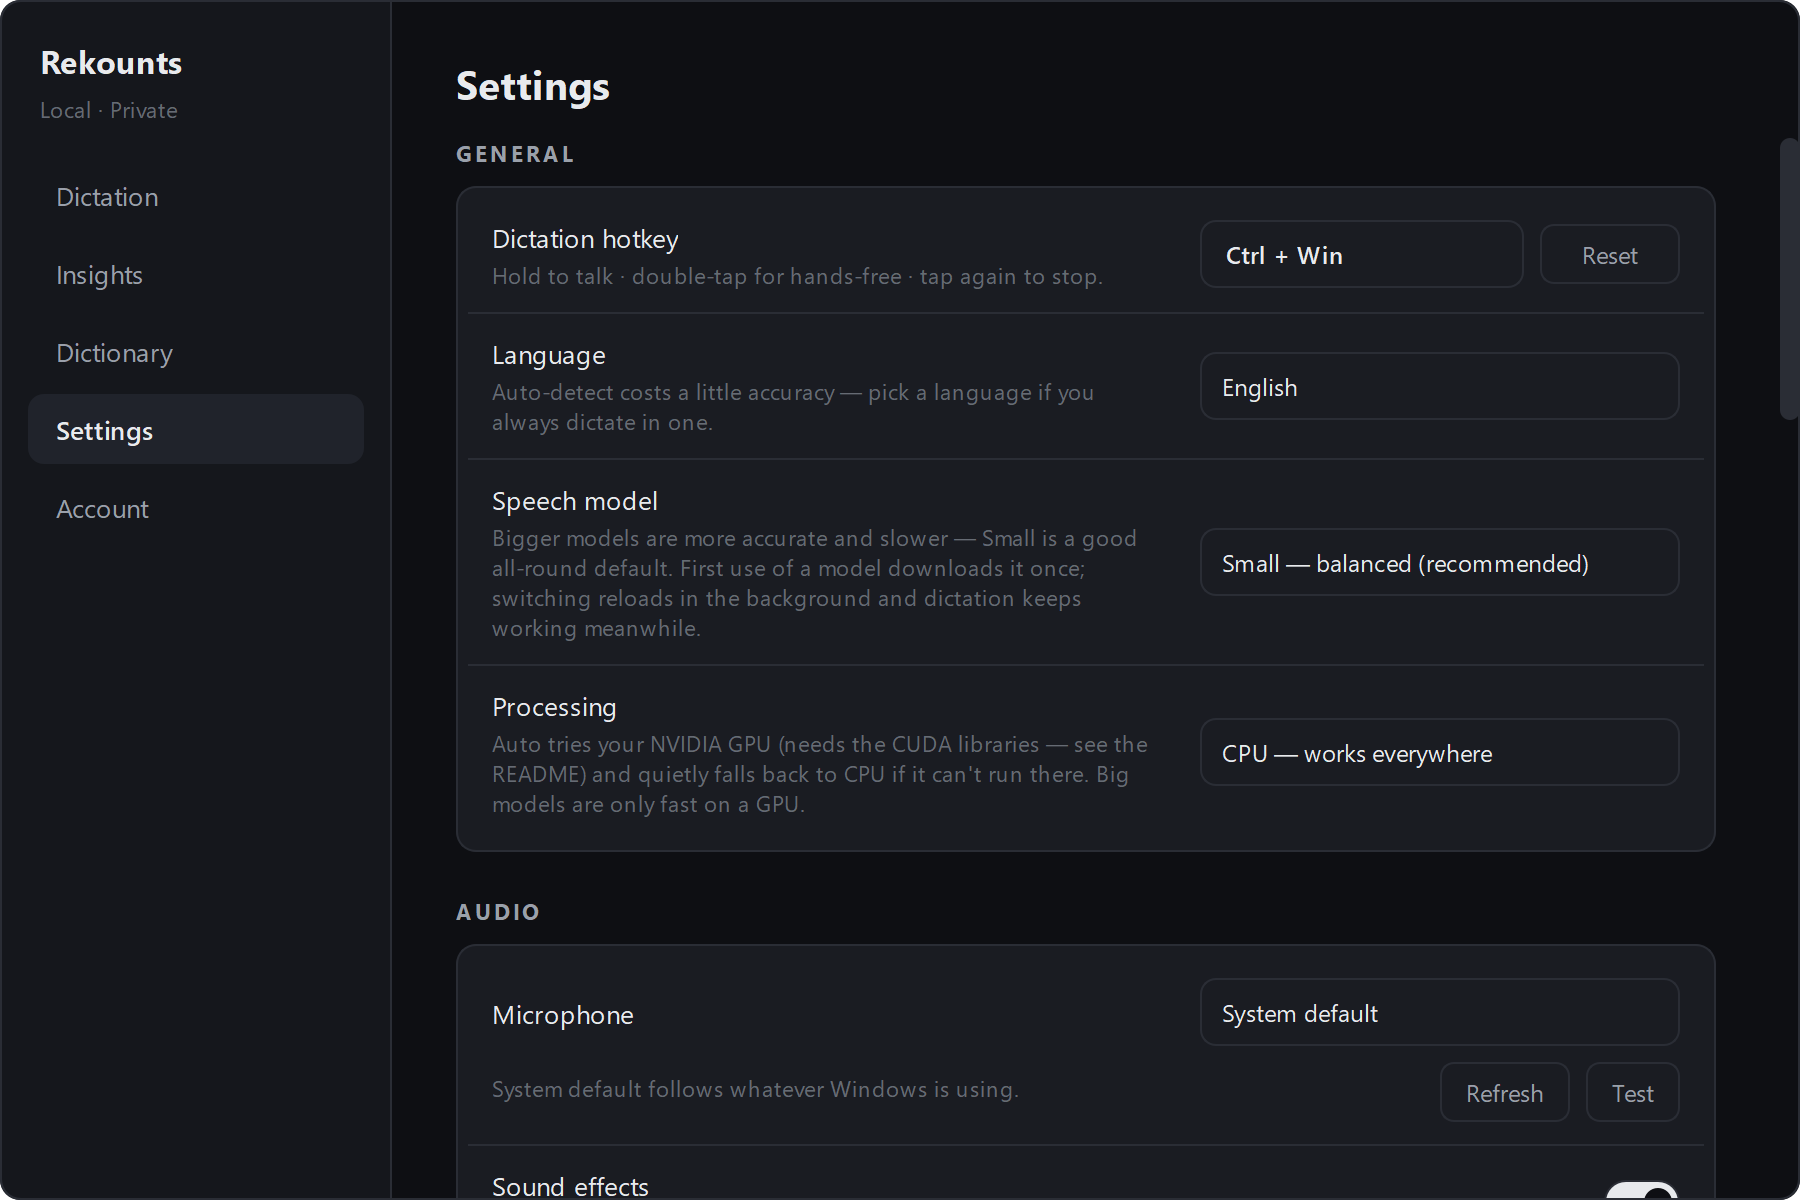
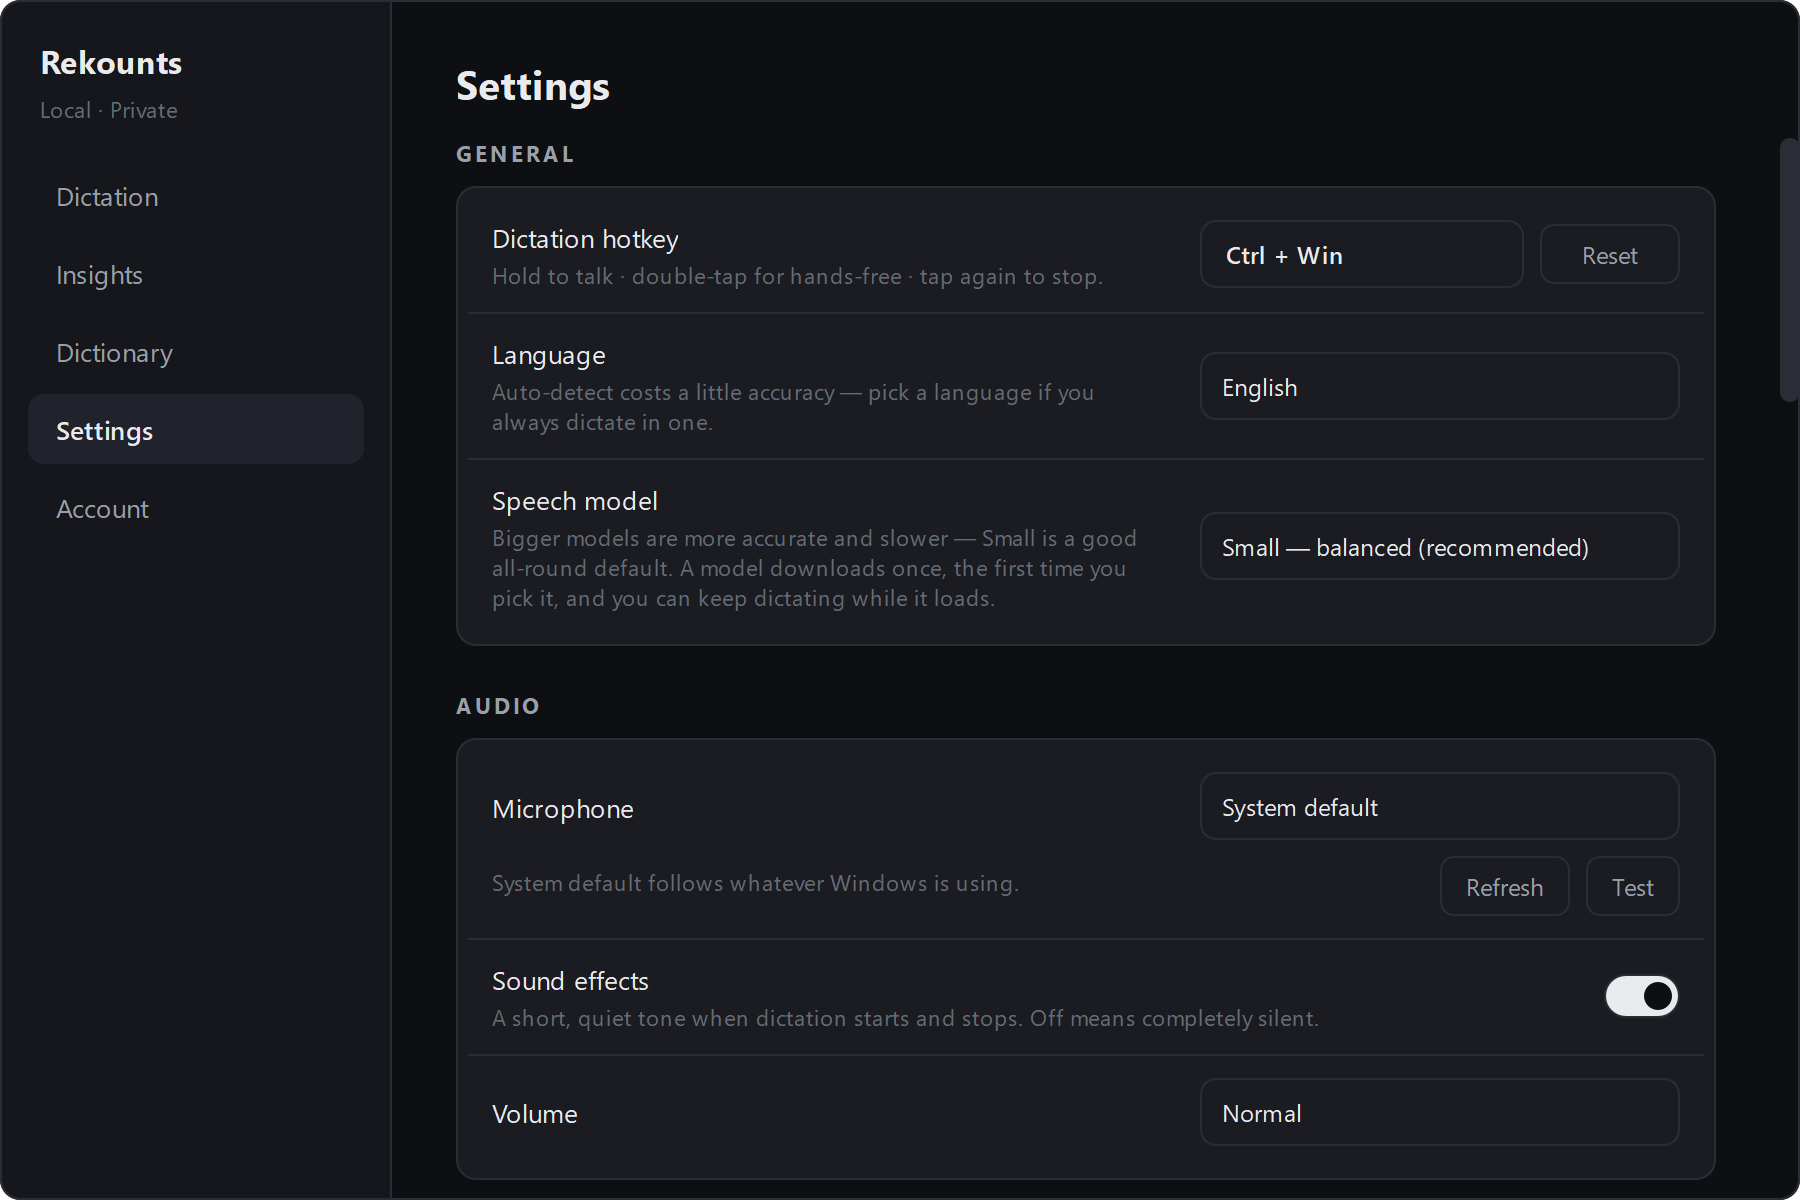
docs(img): capture Settings the way a downloader sees it
capture_hub_shots.py necessarily runs from source, where the Processing row
exists - so the README screenshot was showing a row the installed app this
README is selling does not have. Same reasoning that already swaps the real
microphone names and the capture machine's data folder: the published image
must not show something only true of the machine it was taken on.

diff --git a/tools/capture_hub_shots.py b/tools/capture_hub_shots.py
@@ -20,7 +20,9 @@ published images can't leak the machine they were captured on:
 
 * the microphone list (real device names) -> two generic placeholders;
 * the "Where your data lives" path (the sandbox temp dir) -> the generic
-  ``C:\\Users\\you\\AppData\\Roaming\\Rekounts`` a user would see.
+  ``C:\\Users\\you\\AppData\\Roaming\\Rekounts`` a user would see;
+* the **Processing** row -> hidden, because this script runs from source and
+  the packaged build the README is illustrating has no GPU stack in it.
 
 Everything else on screen is the app rendering its own state.
 
@@ -54,7 +56,7 @@ from PySide6 import QtCore, QtGui, QtWidgets  # noqa: E402
 from rekounts import paths, startup  # noqa: E402
 from rekounts.config import Config  # noqa: E402
 from rekounts.history import History  # noqa: E402
-from rekounts.ui import settings_page, theme  # noqa: E402
+from rekounts.ui import platform_text, settings_page, theme  # noqa: E402
 from rekounts.ui.dashboard import Dashboard  # noqa: E402
 from scripts.seed_history import SAMPLES  # noqa: E402
 
@@ -221,6 +223,12 @@ def main():
     settings_page.microphone_options = lambda: FAKE_MICS
     startup.is_enabled = lambda *a, **k: False
     startup.set_enabled = lambda *a, **k: None
+    # Capture the app as a DOWNLOADER sees it. This script necessarily runs
+    # from source, where the Processing row exists; the packaged build it
+    # illustrates has no GPU stack in it and so has no such row. Same reasoning
+    # as the fake mics and the generic data folder above — the published image
+    # must not show something that is only true of the capture machine.
+    platform_text.gpu_choice_applies = lambda *a, **k: False
 
     config = Config(path=SANDBOX / "Rekounts" / "config.json")
     history = History(path=SANDBOX / "Rekounts" / "history.db")
